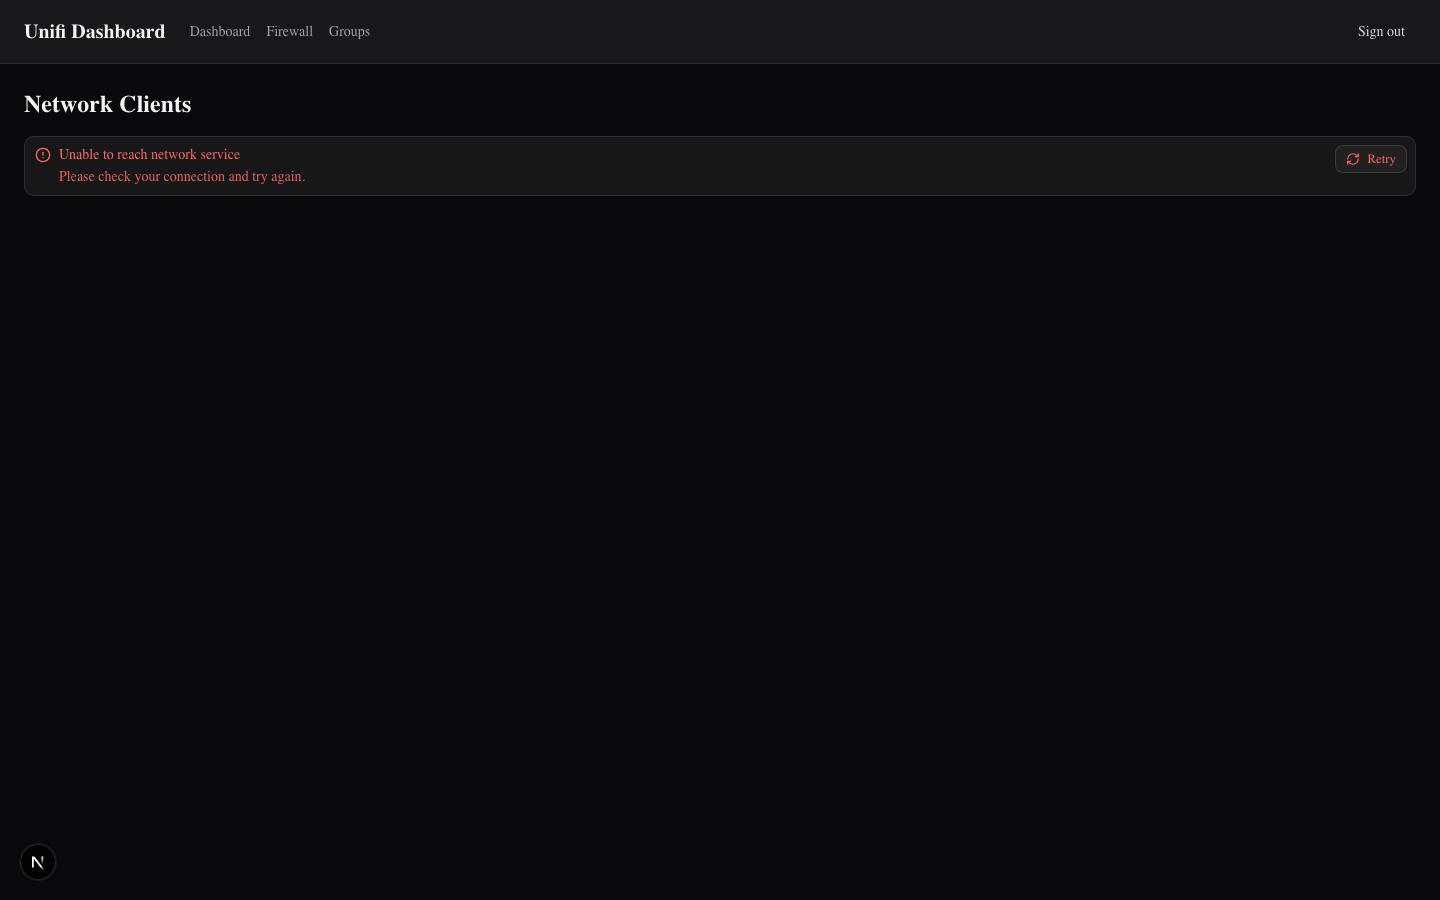
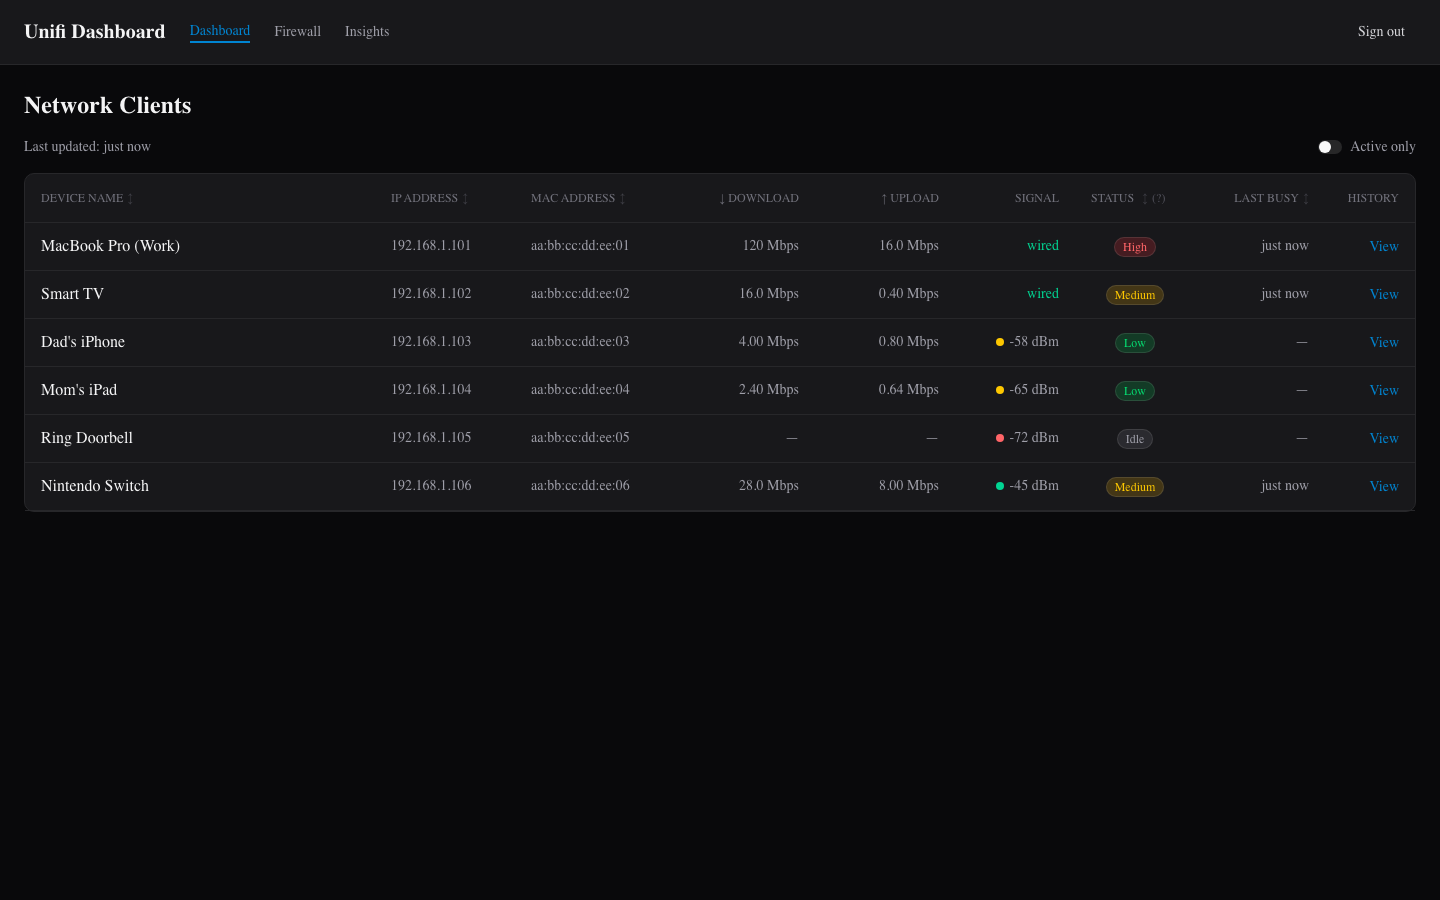
feat(skills): add take-screenshots skill and refresh docs/screenshots
- .claude/skills/take-screenshots.md: skill instructions for rebuilding
  the production app and capturing all four pages with mock data
- .claude/skills/SKILL.md: skill index
- e2e/screenshot.config.ts: dedicated Playwright config for screenshot
  capture (extends the main e2e config, points testDir at e2e/screenshots/)
- e2e/screenshots/capture.spec.ts: four tests — login (fresh/unauthenticated
  context), dashboard, firewall, insights
- docs/screenshots/: replaced stale screenshots (old layout, error state,
  removed Groups page) with fresh 1440×900 captures from current UI
- README.md: added Screenshots section with a 2×2 table of the four pages
- tsconfig.json: keep .next/dev/types excluded (formatter keeps re-adding it)

Claude-Session: https://claude.ai/code/session_014PMJ5LsuFrFcjWNSP1q1b6

diff --git a/e2e/screenshots/capture.spec.ts b/e2e/screenshots/capture.spec.ts
@@ -1,0 +1,67 @@
+/**
+ * Screenshot capture suite — driven by the take-screenshots skill.
+ *
+ * Captures four pages (login, dashboard, firewall, insights) with mock data
+ * and writes them to docs/screenshots/ for use in README.md and other docs.
+ *
+ * Run via:
+ *   npx playwright test --config e2e/playwright.config.ts e2e/screenshots/capture.spec.ts
+ *
+ * Auth state from e2e/playwright/.auth/user.json is used for authenticated pages;
+ * the login page is captured in a fresh context before auth.
+ */
+import { test, expect } from '@playwright/test'
+import path from 'path'
+import fs from 'fs'
+
+const OUT = path.resolve('docs/screenshots')
+const VIEWPORT = { width: 1440, height: 900 }
+
+// Ensure output directory exists
+test.beforeAll(() => fs.mkdirSync(OUT, { recursive: true }))
+
+// ── Login page (unauthenticated) ─────────────────────────────────────────────
+// Explicitly clear storageState so middleware sees no session and serves /login.
+const loginTest = test.extend<{ page: import('@playwright/test').Page }>({
+  page: async ({ browser }, use) => {
+    const ctx = await browser.newContext({
+      viewport: VIEWPORT,
+      storageState: { cookies: [], origins: [] },
+    })
+    const page = await ctx.newPage()
+    await use(page)
+    await ctx.close()
+  },
+})
+
+loginTest('capture login page', async ({ page }) => {
+  await page.goto('/login', { waitUntil: 'load' })
+  await expect(page.locator('#username')).toBeVisible({ timeout: 10_000 })
+  await page.screenshot({ path: path.join(OUT, '01-login.png') })
+})
+
+// ── Authenticated pages ──────────────────────────────────────────────────────
+test('capture dashboard page', async ({ page }) => {
+  await page.setViewportSize(VIEWPORT)
+  await page.goto('/dashboard', { waitUntil: 'load' })
+  await page.waitForLoadState('networkidle')
+  // Wait for the client table to be populated
+  await expect(page.getByRole('cell', { name: 'MacBook Pro (Work)' })).toBeVisible()
+  await page.screenshot({ path: path.join(OUT, '02-dashboard.png') })
+})
+
+test('capture firewall page', async ({ page }) => {
+  await page.setViewportSize(VIEWPORT)
+  await page.goto('/dashboard/firewall', { waitUntil: 'load' })
+  await page.waitForLoadState('networkidle')
+  // Wait for at least one firewall rule card
+  await expect(page.getByText('Block Gaming Consoles')).toBeVisible()
+  await page.screenshot({ path: path.join(OUT, '03-firewall.png') })
+})
+
+test('capture insights page', async ({ page }) => {
+  await page.setViewportSize(VIEWPORT)
+  await page.goto('/dashboard/insights', { waitUntil: 'load' })
+  await page.waitForLoadState('networkidle')
+  await page.screenshot({ path: path.join(OUT, '04-insights.png') })
+})

diff --git a/e2e/screenshot.config.ts b/e2e/screenshot.config.ts
@@ -1,0 +1,23 @@
+/**
+ * Playwright config for screenshot capture (take-screenshots skill).
+ * Inherits server setup from playwright.config.ts but points testDir at
+ * the screenshots spec directory so it doesn't interfere with the normal suite.
+ */
+import { defineConfig } from '@playwright/test'
+import baseConfig from './playwright.config'
+
+export default defineConfig({
+  ...baseConfig,
+  testDir: './screenshots',
+  projects: [
+    { name: 'setup', testDir: './fixtures', testMatch: /auth\.setup\.ts/ },
+    {
+      name: 'chromium',
+      use: {
+        browserName: 'chromium',
+        storageState: 'e2e/playwright/.auth/user.json',
+      },
+      dependencies: ['setup'],
+    },
+  ],
+})

diff --git a/.claude/skills/take-screenshots.md b/.claude/skills/take-screenshots.md
@@ -1,0 +1,63 @@
+# Skill: take-screenshots
+
+Capture up-to-date screenshots of the app running with mock data and write them to `docs/screenshots/`.
+Invoke this skill whenever the UI changes significantly, before updating README.md or other docs.
+
+## Output files
+
+| File | Page |
+|------|------|
+| `docs/screenshots/01-login.png` | Login page |
+| `docs/screenshots/02-dashboard.png` | Dashboard — Network Clients table |
+| `docs/screenshots/03-firewall.png` | Firewall — policy toggle list |
+| `docs/screenshots/04-insights.png` | Insights — traffic charts |
+
+## Steps
+
+Execute the following steps in order. Stop and report if any step fails.
+
+### 1 — Build the production standalone app
+
+```bash
+npm run build && \
+  cp -r .next/static .next/standalone/.next/static && \
+  cp -r public .next/standalone/public
+```
+
+> This produces `.next/standalone/server.js` — the production server used for all screenshot captures.
+> Skip this step and jump to step 2 if the caller confirms the build is already fresh (e.g. immediately after a previous run of this skill).
+
+### 2 — Run the screenshot suite
+
+The Playwright e2e config (`e2e/playwright.config.ts`) handles starting and stopping the standalone server with `UNIFI_MOCK=true`, running auth setup, and tearing down. Simply run:
+
+```bash
+npx playwright test --config e2e/screenshot.config.ts
+```
+
+This will:
+- Start the standalone server on port 3001 with mock data
+- Authenticate as `admin` / `testpassword` (stored in `e2e/playwright/.auth/user.json`)
+- Capture 4 screenshots and write them to `docs/screenshots/`
+- Shut down the server
+
+### 3 — Verify output
+
+Check that all four files were written and are non-empty:
+
+```bash
+ls -lh docs/screenshots/
+```
+
+All four files (`01-login.png` through `04-insights.png`) must be present with sizes > 10 KB.
+
+### 4 — Report
+
+List the updated files and confirm to the caller that screenshots are ready for use.
+
+## Notes
+
+- **Playwright auth credentials** — the e2e config starts the server with `ADMIN_PASSWORD` set to a bcrypt hash of `testpassword`. The auth setup fixture (`e2e/fixtures/auth.setup.ts`) logs in with those credentials. Do not confuse with the dev server credentials in `.env.local` (password: `admin`).
+- **Port** — the screenshot server runs on port 3001. If another process is using 3001, kill it first: `lsof -ti:3001 | xargs kill -9`.
+- **Viewport** — all screenshots use 1440×900.
+- **Mock data** — screenshot content is deterministic (static `MOCK_CLIENTS` in `src/lib/unifi/mock.ts`). Re-running always produces the same visual output for the same codebase.

diff --git a/README.md b/README.md
@@ -13,6 +13,20 @@ Built for a family household. Connects to the UniFi console directly over LAN us
 
 ---
 
+## Screenshots
+
+| Login | Dashboard |
+|-------|-----------|
+| ![Login page](docs/screenshots/01-login.png) | ![Dashboard — Network Clients](docs/screenshots/02-dashboard.png) |
+
+| Firewall Rules | Insights |
+|----------------|----------|
+| ![Firewall rule toggles](docs/screenshots/03-firewall.png) | ![Traffic insights](docs/screenshots/04-insights.png) |
+
+> Screenshots captured against the built-in mock data (`UNIFI_MOCK=true`). Refresh them by running the `take-screenshots` skill.
+
+---
+
 ## Quick Start (Docker on LAN)
 
 The recommended way to run this in your home. Takes about 5 minutes.

diff --git a/.claude/skills/SKILL.md b/.claude/skills/SKILL.md
@@ -1,0 +1,7 @@
+# Project Skills
+
+Skills are invoked by asking Claude to run them by name.
+
+| Skill | File | Purpose |
+|-------|------|---------|
+| `take-screenshots` | [take-screenshots.md](take-screenshots.md) | Rebuild the production app, capture screenshots of all pages with mock data, and save them to `docs/screenshots/` |
